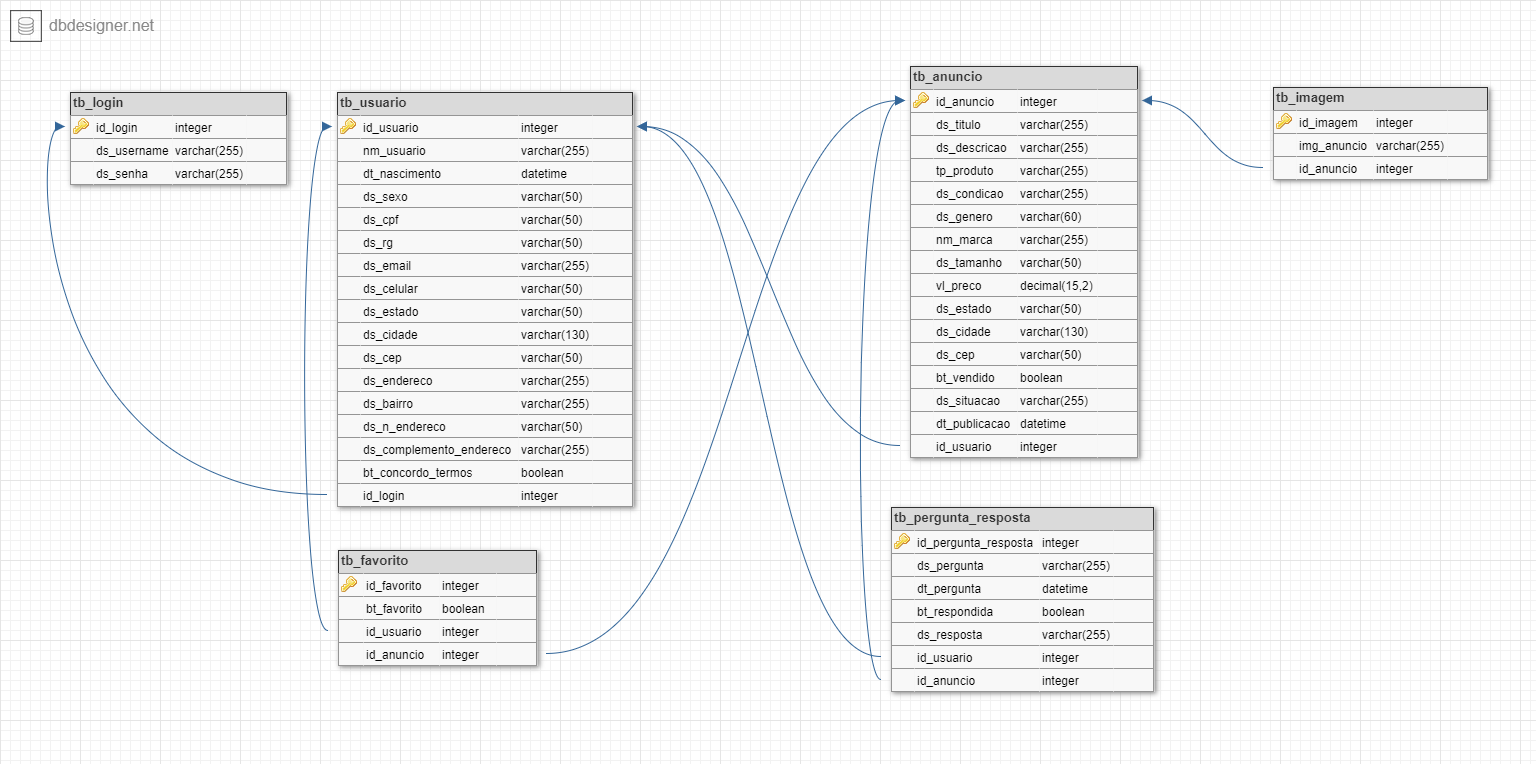
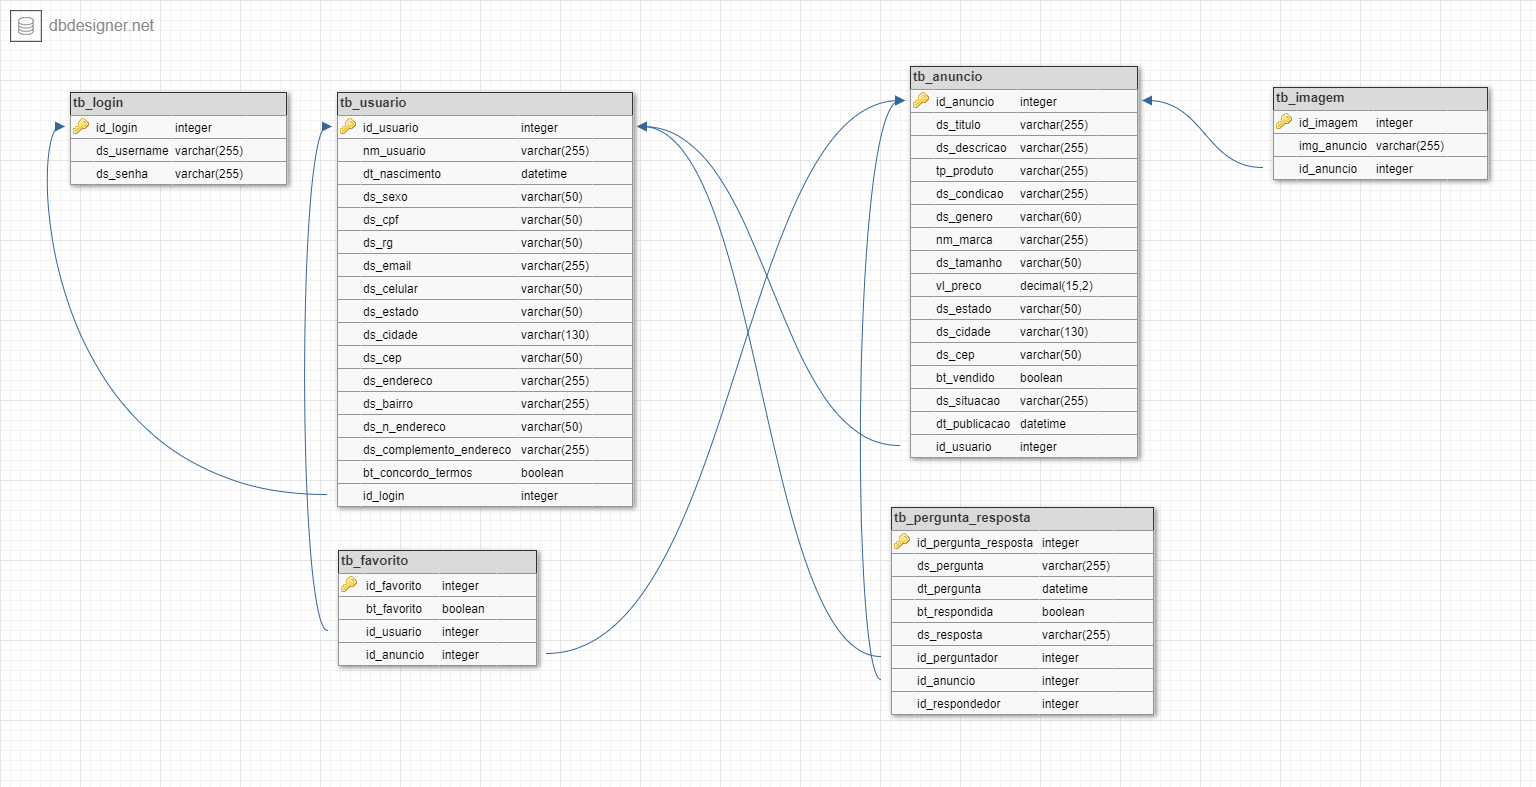
perguntar e responder feito

diff --git a/Backend/Utils/AnuncioConversor.cs b/Backend/Utils/AnuncioConversor.cs
@@ -46,6 +46,7 @@ namespace Backend.Utils
         {
             Models.Response.AnuncioRoupasResponse.AnuncioDetalhado resp = new Models.Response.AnuncioRoupasResponse.AnuncioDetalhado();
             resp.IdAnuncio = anuncio.IdAnuncio;
+            resp.IdDonoAnuncio = anuncio.IdUsuario;
             resp.Titulo = anuncio.DsTitulo;
             resp.Descricao = anuncio.DsDescricao;
             resp.Produto = anuncio.TpProduto;
@@ -64,12 +65,13 @@ namespace Backend.Utils
             resp.Cidade = anuncio.DsCidade;
 
             resp.PerguntasERespotas = anuncio.TbPerguntaResposta.Select(x => new Models.Response.AnuncioRoupasResponse.PerguntaEResposta(){
-                IdPerguntaResposta = x.IdPerguntaRespota,
+                IdPerguntaResposta = x.IdPerguntaResposta,
                 Pergunta = x.DsPergunta,
                 DataPergunta = x.DtPergunta,
                 Respondida = x.BtRespondida,
                 Resposta = x.DsResposta,
-                IdUsuario = x.IdUsuario,
+                IdPerguntador = x.IdPerguntador,
+                IdRespondedor = x.IdRespondedor,
                 IdAnuncio = x.IdAnuncio
             }).ToList();
 
@@ -79,6 +81,56 @@ namespace Backend.Utils
                 TextoImagem = x.ImgAnuncio
             }).ToList();
 
+            return resp;
+        }
+
+        public Models.TbPerguntaResposta PerguntarParaTabela(Models.Request.AnuncioRoupasRequest.Pergunta req)
+        {
+            Models.TbPerguntaResposta resp = new Models.TbPerguntaResposta();
+            resp.BtRespondida = false;
+            resp.DsPergunta = req.Texto;
+            resp.DtPergunta = DateTime.Now;
+            resp.IdAnuncio = req.IdAnuncio;
+            resp.IdPerguntador = req.IdUsuarioPerguntador;
+            resp.IdRespondedor = req.IdUsuarioRespondedor;
+            return resp;
+        }
+
+        public Models.Response.AnuncioRoupasResponse.PerguntaEResposta PerguntarParaResponse(Models.TbPerguntaResposta req)
+        {
+            Models.Response.AnuncioRoupasResponse.PerguntaEResposta resp = new Models.Response.AnuncioRoupasResponse.PerguntaEResposta();
+            resp.IdPerguntaResposta = req.IdPerguntaResposta;
+            resp.Pergunta = req.DsPergunta;
+            resp.DataPergunta = req.DtPergunta;
+            resp.Respondida = req.BtRespondida;
+            resp.IdPerguntador = req.IdPerguntador;
+            resp.IdRespondedor = req.IdRespondedor;
+            resp.IdAnuncio = req.IdAnuncio;
+
+            return resp;
+        }
+
+        public Models.TbPerguntaResposta ResponderParaTabela(Models.Request.AnuncioRoupasRequest.Resposta req)
+        {
+            Models.TbPerguntaResposta resp = new Models.TbPerguntaResposta();
+            resp.IdRespondedor = req.IdUsuarioRespondedor;
+            resp.IdPerguntaResposta = req.IdPerguntaResposta;
+            resp.DsResposta = req.Texto;
+            resp.BtRespondida = true;
+            return resp;
+        }
+
+        public Models.Response.AnuncioRoupasResponse.PerguntaEResposta ResponderParaResponse(Models.TbPerguntaResposta req)
+        {
+            Models.Response.AnuncioRoupasResponse.PerguntaEResposta resp = new Models.Response.AnuncioRoupasResponse.PerguntaEResposta();
+            resp.IdPerguntaResposta = req.IdPerguntaResposta;
+            resp.Pergunta = req.DsPergunta;
+            resp.Resposta = req.DsResposta;
+            resp.DataPergunta = req.DtPergunta;
+            resp.Respondida = req.BtRespondida;
+            resp.IdPerguntador = req.IdPerguntador;
+            resp.IdRespondedor = req.IdRespondedor;
+            resp.IdAnuncio = req.IdAnuncio;
             return resp;
         }
     }

diff --git a/Backend/Controllers/AnuncioController.cs b/Backend/Controllers/AnuncioController.cs
@@ -11,7 +11,7 @@ namespace Backend.Controllers
     [Route("[controller]")]
     public class AnuncioController : ControllerBase
     {
-        Business.AnuncioBusiness businessanuncio = new Business.AnuncioBusiness();
+        Business.AnuncioBusiness businessAnuncio = new Business.AnuncioBusiness();
         Utils.AnuncioConversor conversorAnuncio = new Utils.AnuncioConversor();
         Business.GerenciadorImagem gerenciadorImagem = new Business.GerenciadorImagem();
         [HttpGet("foto/{nome}")]
@@ -36,7 +36,7 @@ namespace Backend.Controllers
         {
             try
             {
-                List<Models.TbAnuncio> anuncios = businessanuncio.ConsultarAnuncios(BarraPesquisa, Estado, Cidade, Tamanho, Genero, Condicao);
+                List<Models.TbAnuncio> anuncios = businessAnuncio.ConsultarAnuncios(BarraPesquisa, Estado, Cidade, Tamanho, Genero, Condicao);
                 return conversorAnuncio.ConversorAnuncioListaResponse(anuncios);
             }
             catch (System.Exception ex)
@@ -49,12 +49,40 @@ namespace Backend.Controllers
         {
             try
             {
-                Models.TbAnuncio resp = businessanuncio.ConsultadoAnuncioDetalhado(IdAnuncio);
+                Models.TbAnuncio resp = businessAnuncio.ConsultadoAnuncioDetalhado(IdAnuncio);
                 return conversorAnuncio.AnuncioDetalhadoResponse(resp);
             }
             catch (System.Exception ex)
             {
                 return NotFound(new Models.Response.Erro(404, ex.Message));
+            }
+        }
+        [HttpPost("Perguntar/")]
+        public ActionResult<Models.Response.AnuncioRoupasResponse.PerguntaEResposta> Perguntar(Models.Request.AnuncioRoupasRequest.Pergunta req)
+        {
+            try
+            {
+                Models.TbPerguntaResposta a = conversorAnuncio.PerguntarParaTabela(req);
+                Models.TbPerguntaResposta b = businessAnuncio.Perguntar(a);
+                return conversorAnuncio.PerguntarParaResponse(b);
+            }
+            catch (System.Exception ex)
+            {
+                return BadRequest(new Models.Response.Erro(400, ex.Message));
+            }
+        }
+        [HttpPut("Responder/")]
+        public ActionResult<Models.Response.AnuncioRoupasResponse.PerguntaEResposta> Responder(Models.Request.AnuncioRoupasRequest.Resposta req)
+        {
+            try
+            {
+                Models.TbPerguntaResposta a = conversorAnuncio.ResponderParaTabela(req);
+                Models.TbPerguntaResposta b = businessAnuncio.Responder(a);
+                return conversorAnuncio.ResponderParaResponse(b);
+            }
+            catch (System.Exception ex)
+            {
+                return BadRequest(new Models.Response.Erro(400, ex.Message));
             }
         }
     }

diff --git a/Backend/Database/AnuncioDatabase.cs b/Backend/Database/AnuncioDatabase.cs
@@ -22,12 +22,31 @@ namespace Backend.Database
                                                            .OrderByDescending(x => x.DtPublicacao).ToList();
             return anuncios;
         }
-        public Models.TbAnuncio ConsultarAnuncioDetalhado(int IdAnuncio)
+        public Models.TbAnuncio ConsultarAnuncioDetalhado(int? IdAnuncio)
         {
             Models.TbAnuncio resp = ctx.TbAnuncio.Include(x => x.IdUsuarioNavigation).Include(x => x.TbImagem)
                                                                                      .Include(x => x.IdUsuarioNavigation)
                                                                                      .Include(x => x.TbPerguntaResposta)
                                                                                      .FirstOrDefault(x => x.IdAnuncio == IdAnuncio);
+            return resp;
+        }
+        public Models.TbPerguntaResposta Perguntar(Models.TbPerguntaResposta req)
+        {
+            ctx.Add(req);
+            ctx.SaveChanges();
+            return req;
+        }
+        public Models.TbPerguntaResposta ConsultarTBPergundaERespota(int? IdPerguntaResposta)
+        {
+            Models.TbPerguntaResposta resp = ctx.TbPerguntaResposta.FirstOrDefault(x => x.IdPerguntaResposta == IdPerguntaResposta);
+            return resp;
+        }
+        public Models.TbPerguntaResposta Responder(Models.TbPerguntaResposta req)
+        {
+            Models.TbPerguntaResposta resp = ctx.TbPerguntaResposta.FirstOrDefault(x => x.IdPerguntaResposta == req.IdPerguntaResposta);
+            resp.DsResposta = req.DsResposta;
+            resp.BtRespondida = req.BtRespondida;
+            ctx.SaveChanges();
             return resp;
         }
     }

diff --git a/Backend/Models/anuncioRoupaContext.cs b/Backend/Models/anuncioRoupaContext.cs
@@ -146,14 +146,14 @@ namespace Backend.Models
 
             modelBuilder.Entity<TbPerguntaResposta>(entity =>
             {
-                entity.HasKey(e => e.IdPerguntaRespota)
+                entity.HasKey(e => e.IdPerguntaResposta)
                     .HasName("PRIMARY");
 
                 entity.HasIndex(e => e.IdAnuncio)
                     .HasName("id_anuncio");
 
-                entity.HasIndex(e => e.IdUsuario)
-                    .HasName("id_usuario");
+                entity.HasIndex(e => e.IdPerguntador)
+                    .HasName("id_perguntador");
 
                 entity.Property(e => e.DsPergunta)
                     .HasCharSet("utf8mb4")
@@ -166,12 +166,12 @@ namespace Backend.Models
                 entity.HasOne(d => d.IdAnuncioNavigation)
                     .WithMany(p => p.TbPerguntaResposta)
                     .HasForeignKey(d => d.IdAnuncio)
-                    .HasConstraintName("tb_pergunta_resposta_ibfk_2");
-
-                entity.HasOne(d => d.IdUsuarioNavigation)
-                    .WithMany(p => p.TbPerguntaResposta)
-                    .HasForeignKey(d => d.IdUsuario)
                     .HasConstraintName("tb_pergunta_resposta_ibfk_1");
+
+                entity.HasOne(d => d.IdPerguntadorNavigation)
+                    .WithMany(p => p.TbPerguntaResposta)
+                    .HasForeignKey(d => d.IdPerguntador)
+                    .HasConstraintName("tb_pergunta_resposta_ibfk_2");
             });
 
             modelBuilder.Entity<TbUsuario>(entity =>

diff --git a/Backend/Models/TbPerguntaResposta.cs b/Backend/Models/TbPerguntaResposta.cs
@@ -9,8 +9,8 @@ namespace Backend.Models
     public partial class TbPerguntaResposta
     {
         [Key]
-        [Column("id_pergunta_respota")]
-        public int IdPerguntaRespota { get; set; }
+        [Column("id_pergunta_resposta")]
+        public int IdPerguntaResposta { get; set; }
         [Column("ds_pergunta", TypeName = "varchar(255)")]
         public string DsPergunta { get; set; }
         [Column("dt_pergunta", TypeName = "datetime")]
@@ -19,16 +19,18 @@ namespace Backend.Models
         public bool? BtRespondida { get; set; }
         [Column("ds_resposta", TypeName = "varchar(255)")]
         public string DsResposta { get; set; }
-        [Column("id_usuario")]
-        public int? IdUsuario { get; set; }
         [Column("id_anuncio")]
         public int? IdAnuncio { get; set; }
+        [Column("id_perguntador")]
+        public int? IdPerguntador { get; set; }
+        [Column("id_respondedor")]
+        public int? IdRespondedor { get; set; }
 
         [ForeignKey(nameof(IdAnuncio))]
         [InverseProperty(nameof(TbAnuncio.TbPerguntaResposta))]
         public virtual TbAnuncio IdAnuncioNavigation { get; set; }
-        [ForeignKey(nameof(IdUsuario))]
+        [ForeignKey(nameof(IdPerguntador))]
         [InverseProperty(nameof(TbUsuario.TbPerguntaResposta))]
-        public virtual TbUsuario IdUsuarioNavigation { get; set; }
+        public virtual TbUsuario IdPerguntadorNavigation { get; set; }
     }
 }

diff --git a/Backend/Business/AnuncioBusiness.cs b/Backend/Business/AnuncioBusiness.cs
@@ -30,5 +30,17 @@ namespace Backend.Business
             if(resp == null) throw new ArgumentException("Anuncio não encontrado.");
             return resp;
         }
+        public Models.TbPerguntaResposta Perguntar(Models.TbPerguntaResposta req)
+        {
+            validadores.Perguntar(req);
+            return databaseAnuncio.Perguntar(req);
+        }
+        public Models.TbPerguntaResposta Responder(Models.TbPerguntaResposta req)
+        {
+            validadores.Responder(req);
+            Models.TbPerguntaResposta paraValidarRespondedor = databaseAnuncio.ConsultarTBPergundaERespota(req.IdPerguntaResposta);
+            if(paraValidarRespondedor.IdRespondedor != req.IdRespondedor) throw new ArgumentException("Você não é o dono desse anuncio. Você não pode responder perguntas dele.");
+            return databaseAnuncio.Responder(req);
+        }
     }
 }

diff --git a/Backend/Models/Response/AnuncioRoupasResponse.cs b/Backend/Models/Response/AnuncioRoupasResponse.cs
@@ -75,6 +75,7 @@ namespace Backend.Models.Response
         public class AnuncioDetalhado
         {
             public int IdAnuncio { get; set; }
+            public int? IdDonoAnuncio { get; set; }
             public string Titulo { get; set; }
             public string Descricao { get; set; }
             public string Produto { get; set; }
@@ -108,8 +109,9 @@ namespace Backend.Models.Response
             public DateTime? DataPergunta { get; set; }
             public bool? Respondida { get; set; }
             public string Resposta { get; set; }
-            public int? IdUsuario { get; set; }
+            public int? IdPerguntador { get; set; }
             public int? IdAnuncio { get; set; }
+            public int? IdRespondedor { get; set; }
         }
     }
 }

diff --git a/Backend/Business/Validadores.cs b/Backend/Business/Validadores.cs
@@ -60,7 +60,21 @@ namespace Backend.Business
             ValidarTexto(CPF);
             ValidarTexto(RG);
         }
-
+        public void Perguntar(Models.TbPerguntaResposta req)
+        {
+            ValidarTexto(req.DsPergunta);
+            ValidarData(req.DtPergunta);
+            ValidarId(req.IdAnuncio);
+            ValidarId(req.IdPerguntador);
+            ValidarId(req.IdRespondedor);
+        }
+        public void Responder(Models.TbPerguntaResposta req)
+        {
+            ValidarTexto(req.DsResposta);
+            ValidarId(req.IdAnuncio);
+            ValidarId(req.IdPerguntador);
+            ValidarId(req.IdRespondedor);
+        }
 
         public void ValidarData(DateTime? data)
         {

diff --git a/Backend/Models/Request/AnuncioRoupasRequest.cs b/Backend/Models/Request/AnuncioRoupasRequest.cs
@@ -56,5 +56,18 @@ namespace Backend.Models.Request
             public string CPF { get; set; }
             public string RG { get; set; }
         }
+        public class Pergunta
+        {
+            public string Texto { get; set; }
+            public int IdAnuncio { get; set; }
+            public int? IdUsuarioPerguntador { get; set; }
+            public int? IdUsuarioRespondedor { get; set; }
+        }
+        public class Resposta
+        {
+            public int IdPerguntaResposta { get; set; }
+            public string Texto { get; set; }
+            public int? IdUsuarioRespondedor { get; set; }
+        }
     }
 }

diff --git a/Backend/Models/TbUsuario.cs b/Backend/Models/TbUsuario.cs
@@ -58,7 +58,7 @@ namespace Backend.Models
         public virtual ICollection<TbAnuncio> TbAnuncio { get; set; }
         [InverseProperty("IdUsuarioNavigation")]
         public virtual ICollection<TbFavorito> TbFavorito { get; set; }
-        [InverseProperty("IdUsuarioNavigation")]
+        [InverseProperty("IdPerguntadorNavigation")]
         public virtual ICollection<TbPerguntaResposta> TbPerguntaResposta { get; set; }
     }
 }
